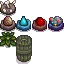
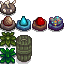
updated translations, added custom green rain weed

Changed region(s): [[0.0, 0.75, 0.25, 1.0]]

diff --git a/ResourceChickens/README.md b/ResourceChickens/README.md
@@ -29,6 +29,8 @@
 -	**Bone Chicken**
 -   **Gold Chicken**
 
+#### MORE CHICKENS IN PROGRESS!
+
 Purchase level 1 baby Resource Chickens from Marnie once you have a Coop constructed. Resource Chickens cost twice as much as vanilla chickens because they can be twice as helpful. Resource eggs can be converted into resources, turned into mayo, and used in cooking recipes.
 
 Level 2 and above chickens produce eggs that provide higher tier resources but can only be obtained through gameplay.
@@ -50,7 +52,7 @@ Each subsequent increase in chicken level adds 10% to both the sell price of egg
 | Geode | Rare drop from geode stones in the Mines and Skull Cavern | Mining Level 3 |
 | Hardwood | Craft and incubate a Hardwood Egg Fusion Chamber | Farming Level 3 |
 | Iron | Craft and incubate an Iron Egg Fusion Chamber | Farming Level 4 |
-| Moss | Rare drop from shaking/chopping green rain trees, forage in the Forest day after green rain | Foraging Level 3 |
+| Moss | Rare drop from shaking/chopping green rain trees, green rain weeds, forage in the Forest day after green rain | Foraging Level 3 |
 | Quartz | Craft and incubate a Quartz Egg Fusion Chamber | Farming Level 4 |
 | Sap | Rare drop from chopping Oak, Maple, Pine, or Mahogany trees | Foraging Level 2 |
 | Stone | Purchase from Marnie | Construct a Coop |
